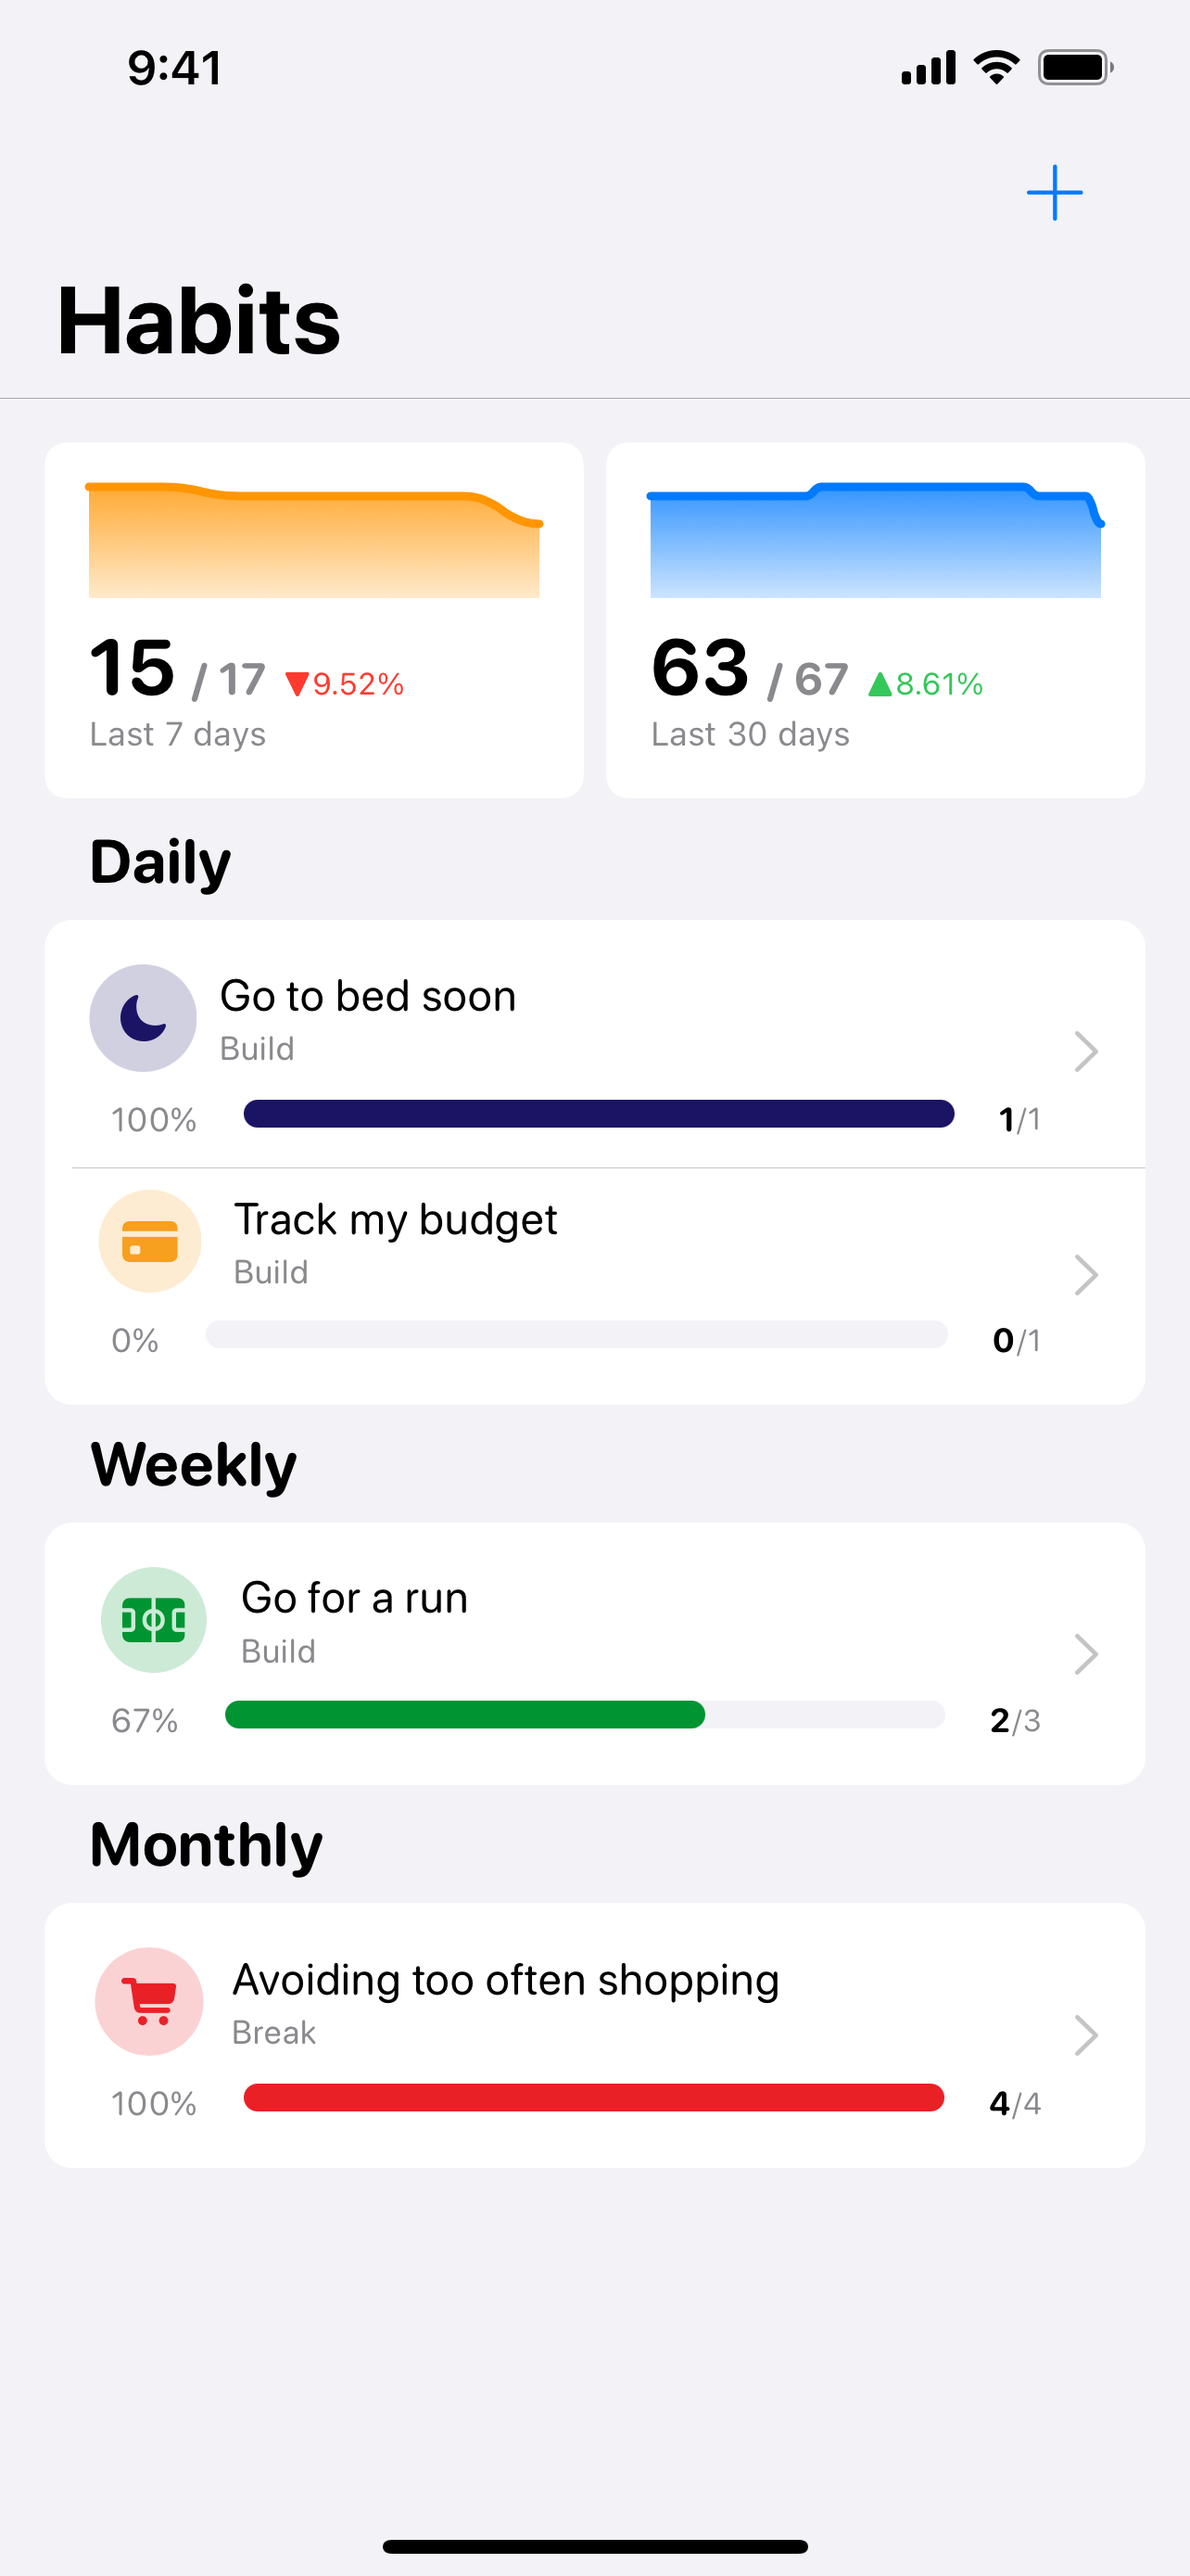
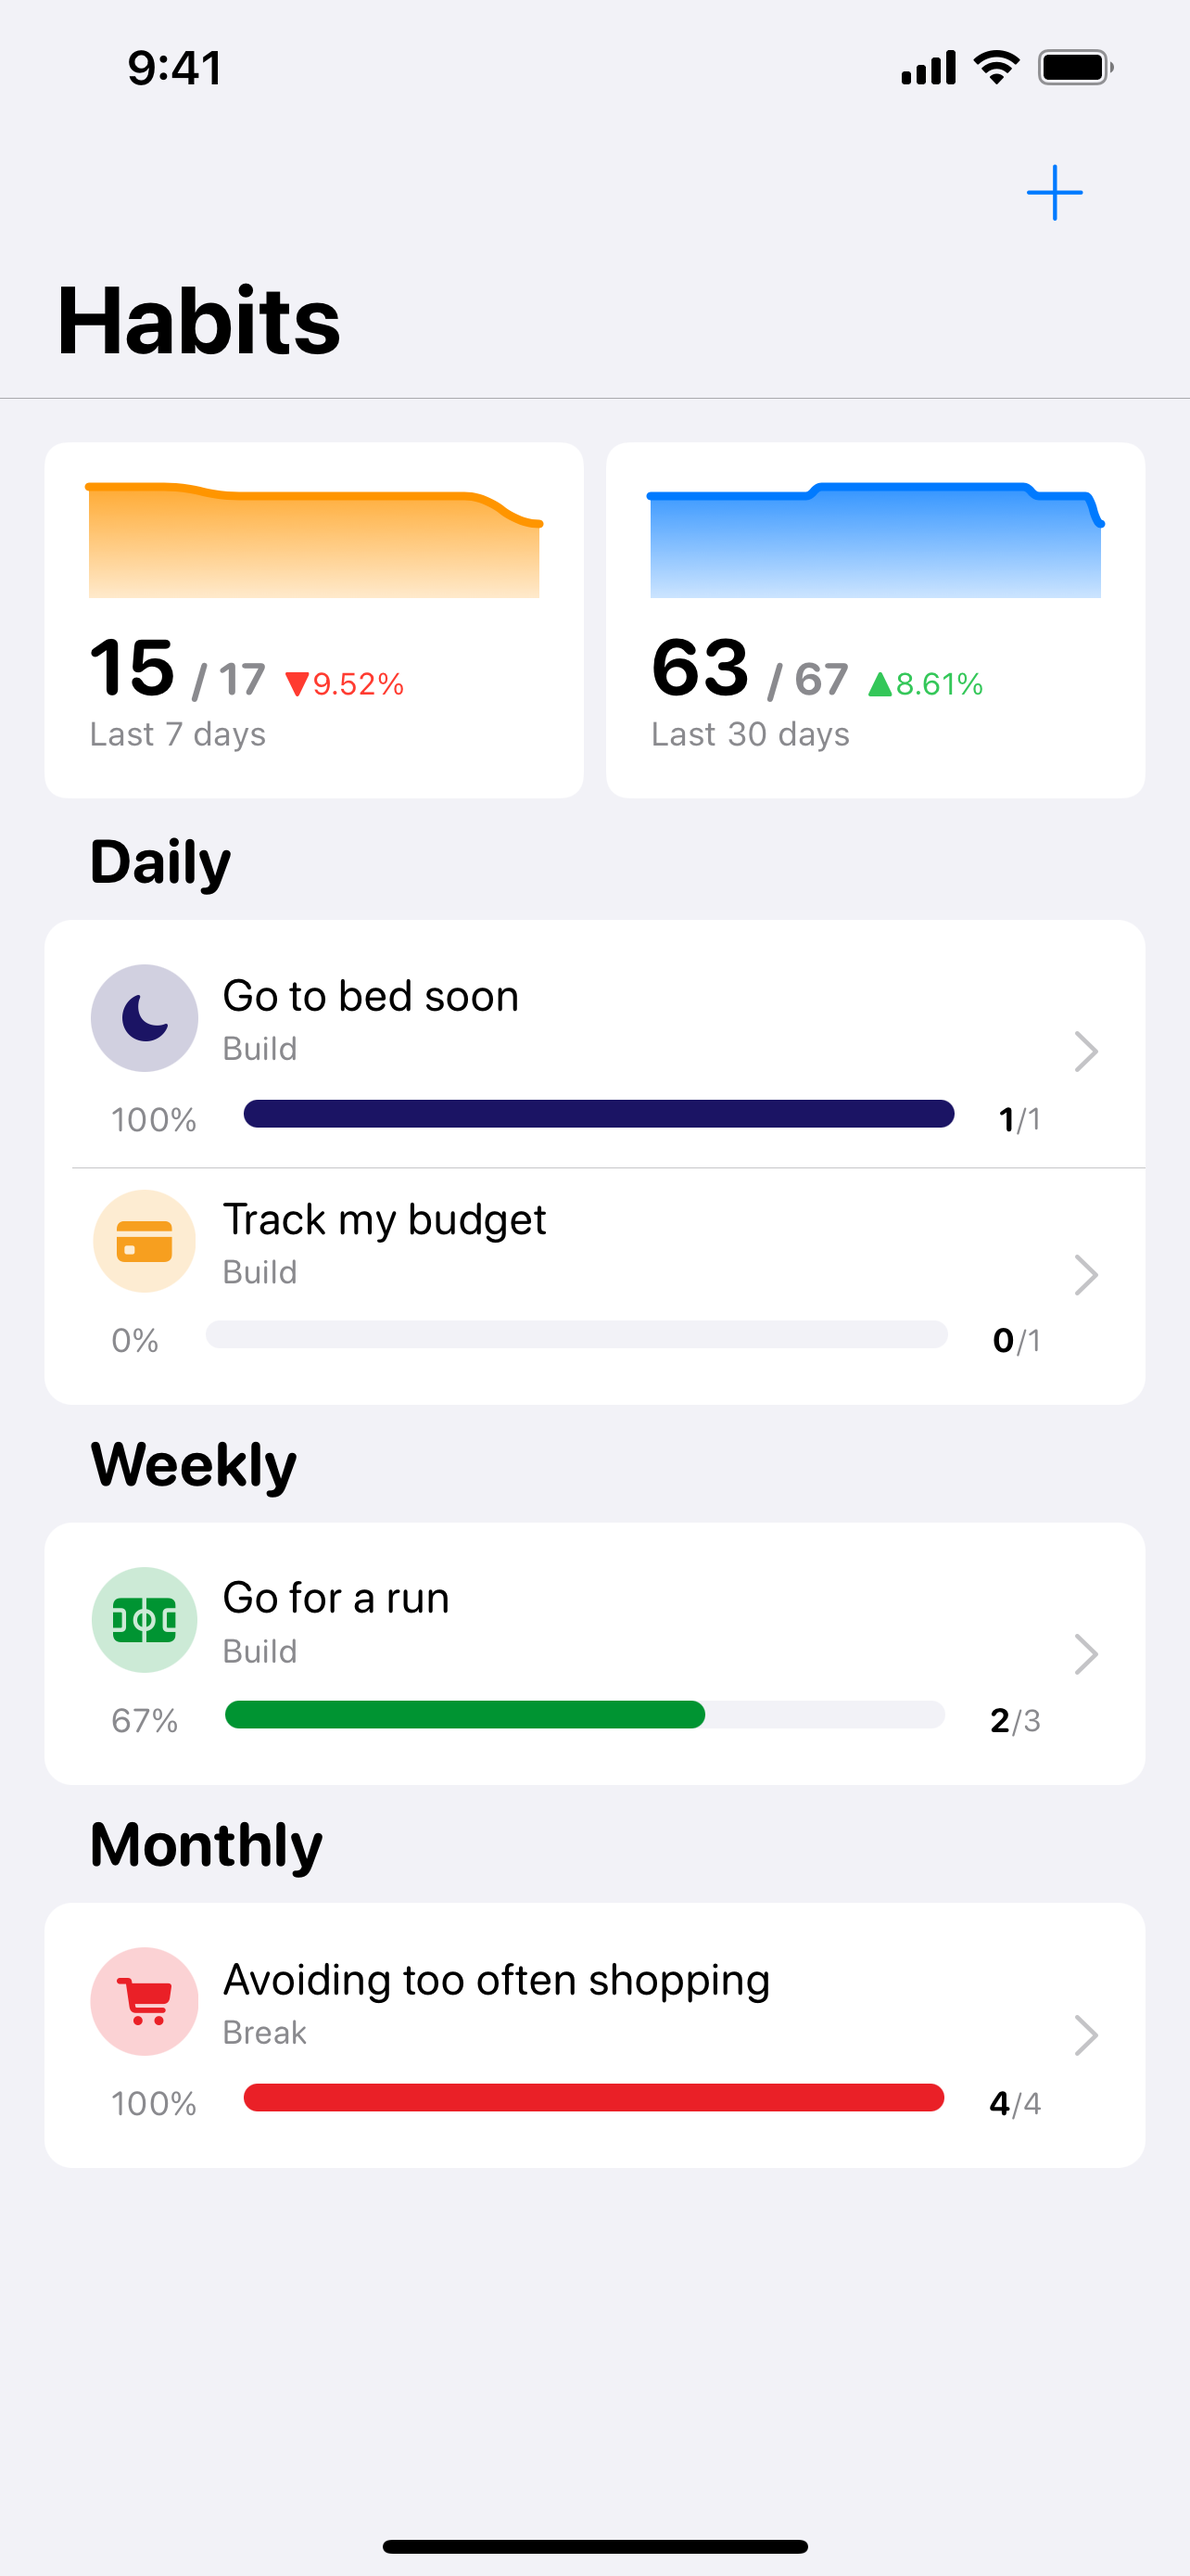
Pushed the latest Web to GitHub pages [skip ci]

diff --git a/_site/changelog/index.html b/_site/changelog/index.html
@@ -14,7 +14,7 @@
 
 	<!-- Smart App Banner -->
 	
-		<meta name="apple-itunes-app" content="app-id=1234793120">
+		<meta name="apple-itunes-app" content="app-id=1576506049">
 	
 
 	<link rel="stylesheet" href="https://use.fontawesome.com/releases/v5.6.3/css/all.css" integrity="sha384-UHRtZLI+pbxtHCWp1t77Bi1L4ZtiqrqD80Kn4Z8NTSRyMA2Fd33n5dQ8lWUE00s/" crossorigin="anonymous">
@@ -59,7 +59,21 @@
 
 <h2 id="unreleased">[unreleased]</h2>
 
+<h2 id="08062021">[08/06/2021]</h2>
+
 <h3 id="added">Added</h3>
+<ul>
+  <li>Possibility to change history of completion for your Habit</li>
+</ul>
+
+<h3 id="fixed">Fixed:</h3>
+<ul>
+  <li>Align the Habits icons on Overview</li>
+</ul>
+
+<h2 id="07242021">[07/24/2021]</h2>
+
+<h3 id="added-1">Added</h3>
 <ul>
   <li>Basic functionality to track your Habits</li>
 </ul>
@@ -74,7 +88,7 @@
 
 $(function() {
 
-    var apiURL = "https://itunes.apple.com/lookup?id=1234793120&callback=?";
+    var apiURL = "https://itunes.apple.com/lookup?id=1576506049&callback=?";
 
     $.getJSON(apiURL, function(json) {
 

diff --git a/_site/privacypolicy/index.html b/_site/privacypolicy/index.html
@@ -14,7 +14,7 @@
 
 	<!-- Smart App Banner -->
 	
-		<meta name="apple-itunes-app" content="app-id=1234793120">
+		<meta name="apple-itunes-app" content="app-id=1576506049">
 	
 
 	<link rel="stylesheet" href="https://use.fontawesome.com/releases/v5.6.3/css/all.css" integrity="sha384-UHRtZLI+pbxtHCWp1t77Bi1L4ZtiqrqD80Kn4Z8NTSRyMA2Fd33n5dQ8lWUE00s/" crossorigin="anonymous">
@@ -72,7 +72,7 @@ All your settings &amp; data are stored securely on your devices and sync by iCl
 
 $(function() {
 
-    var apiURL = "https://itunes.apple.com/lookup?id=1234793120&callback=?";
+    var apiURL = "https://itunes.apple.com/lookup?id=1576506049&callback=?";
 
     $.getJSON(apiURL, function(json) {
 

diff --git a/_site/index.html b/_site/index.html
@@ -14,7 +14,7 @@
 
 	<!-- Smart App Banner -->
 	
-		<meta name="apple-itunes-app" content="app-id=1234793120">
+		<meta name="apple-itunes-app" content="app-id=1576506049">
 	
 
 	<link rel="stylesheet" href="https://use.fontawesome.com/releases/v5.6.3/css/all.css" integrity="sha384-UHRtZLI+pbxtHCWp1t77Bi1L4ZtiqrqD80Kn4Z8NTSRyMA2Fd33n5dQ8lWUE00s/" crossorigin="anonymous">
@@ -285,7 +285,7 @@
 
 $(function() {
 
-    var apiURL = "https://itunes.apple.com/lookup?id=1234793120&callback=?";
+    var apiURL = "https://itunes.apple.com/lookup?id=1576506049&callback=?";
 
     $.getJSON(apiURL, function(json) {
 

diff --git a/_pages/changelog.md b/_pages/changelog.md
@@ -8,5 +8,15 @@ include_in_header: true
 
 ## [unreleased]
 
+## [08/06/2021]
+
+### Added
+- Possibility to change history of completion for your Habit
+
+### Fixed:
+- Align the Habits icons on Overview
+
+## [07/24/2021]
+
 ### Added
 - Basic functionality to track your Habits
